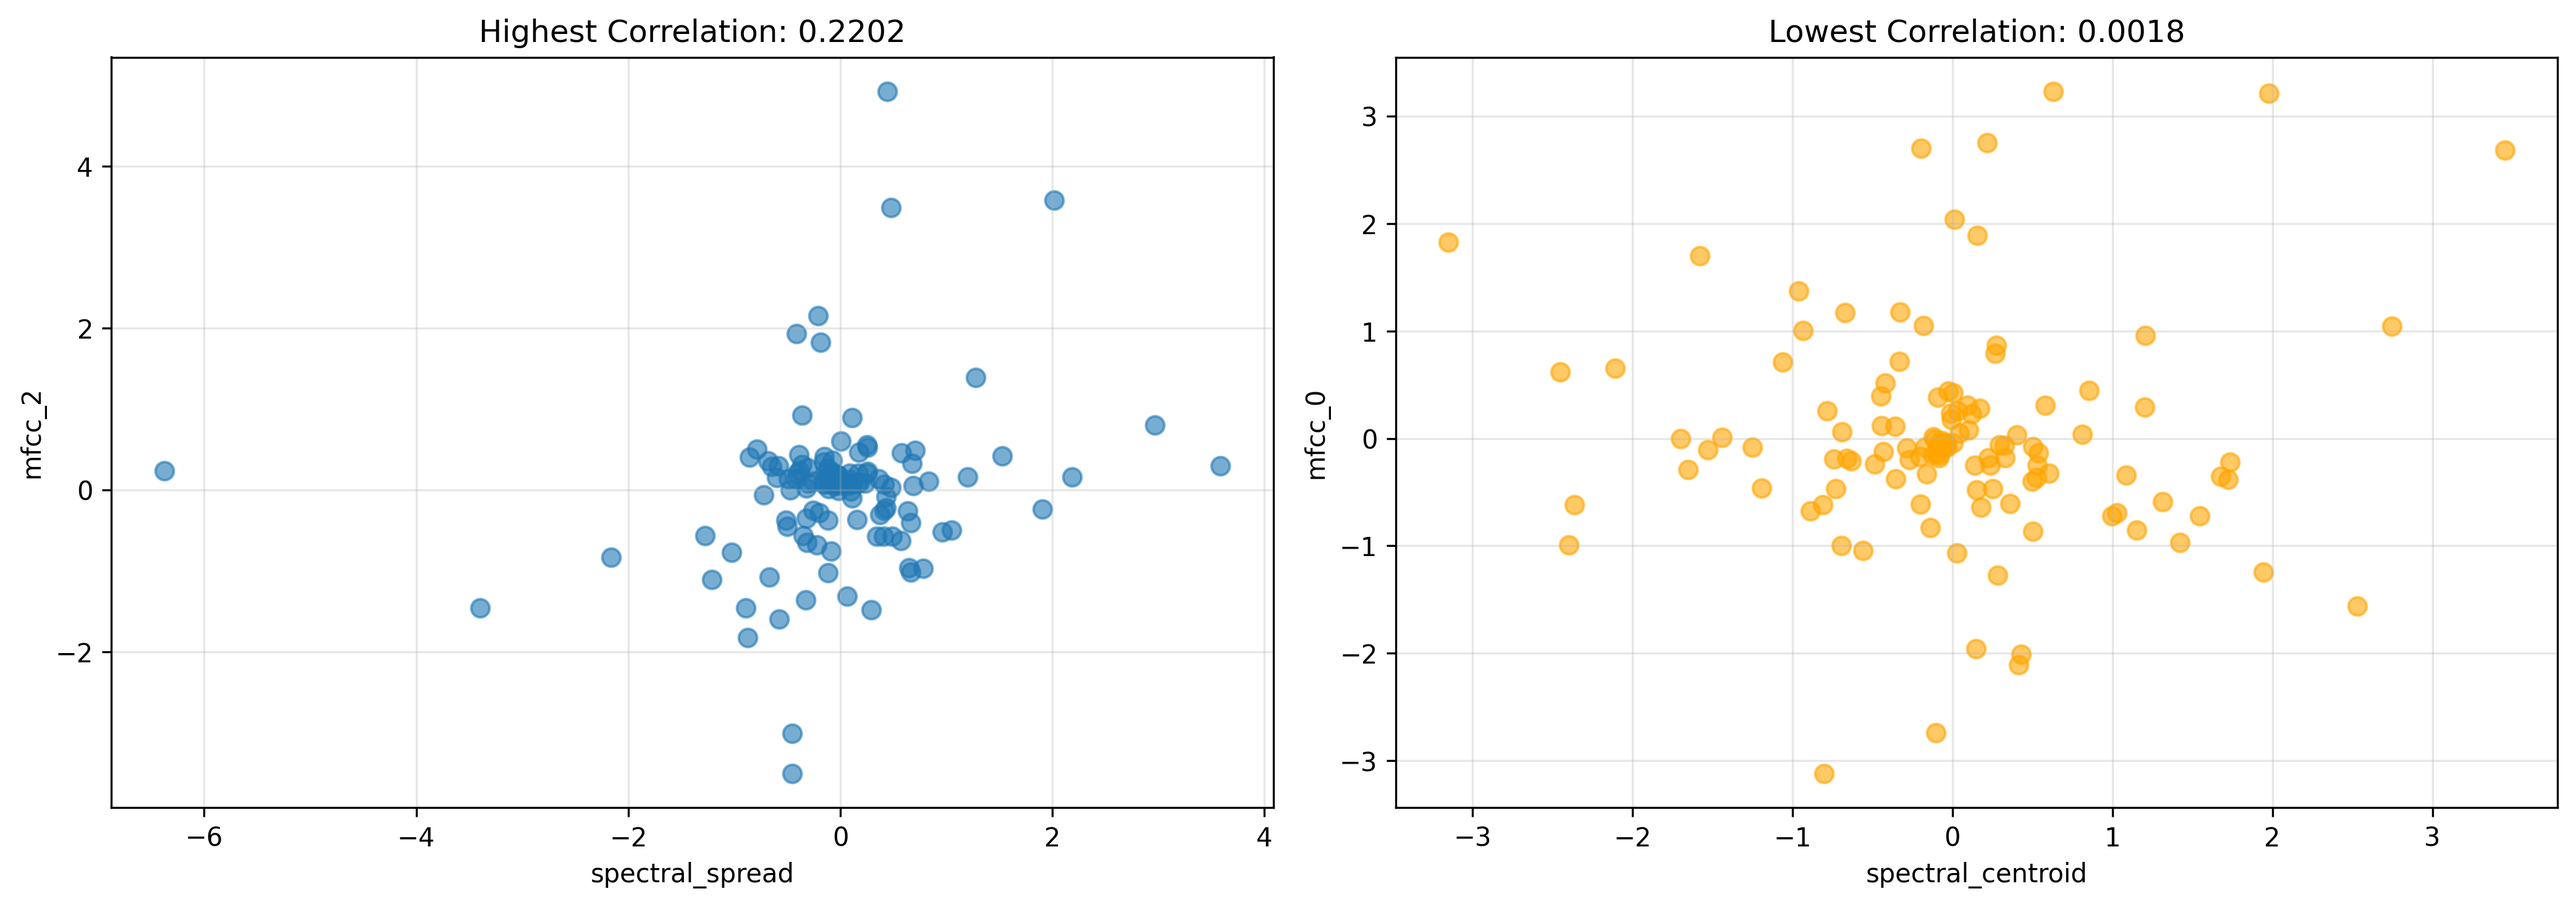
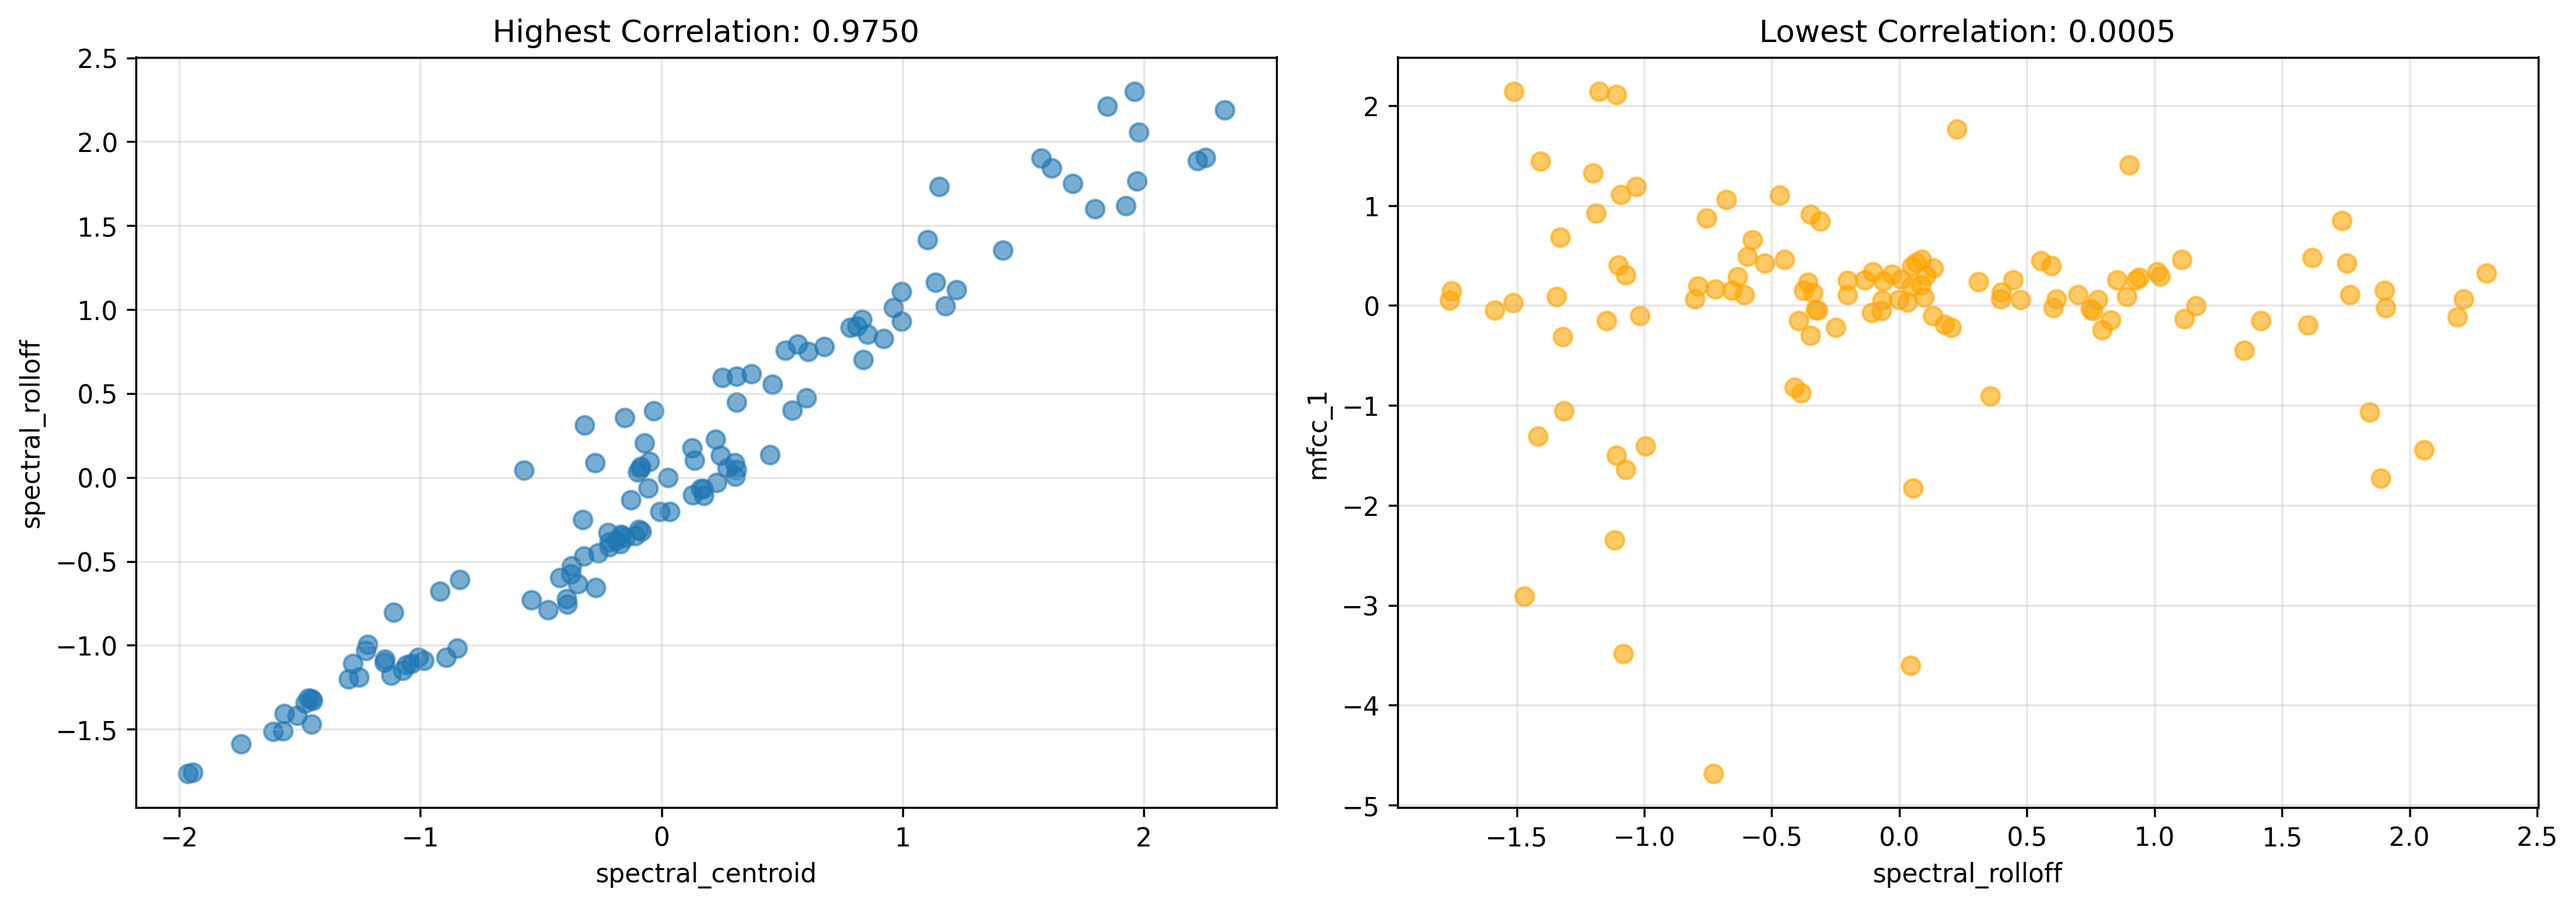
Feature extraction double normalisation corrected!

diff --git a/In_class_activities/Week_6/Feature_extraction.py b/In_class_activities/Week_6/Feature_extraction.py
@@ -312,22 +312,14 @@ class AudioFeatureExtractor:
         # Keep only first 10 MFCC coefficients
         mfcc_cmvn = mfcc_cmvn[:, :10]
 
-        # Apply z-score normalization to each feature
-        centroids_norm = (centroids - np.mean(centroids)) / (np.std(centroids) + 1e-10)
-        spreads_norm = (spreads - np.mean(spreads)) / (np.std(spreads) + 1e-10)
-        rolloff_norm = (rolloff - np.mean(rolloff)) / (np.std(rolloff) + 1e-10)
-        flatness_norm = (flatness - np.mean(flatness)) / (np.std(flatness) + 1e-10)
-        flux_norm = (flux - np.mean(flux)) / (np.std(flux) + 1e-10)
-        zcr_norm = (zcr - np.mean(zcr)) / (np.std(zcr) + 1e-10)
-
         # AGGREGATE: Take mean of each feature (single value per feature)
         feature_vector = [
-            np.mean(centroids_norm),  # 1. Spectral centroid
-            np.mean(spreads_norm),  # 2. Spectral spread
-            np.mean(rolloff_norm),  # 3. Spectral rolloff
-            np.mean(flatness_norm),  # 4. Spectral flatness
-            np.mean(zcr_norm),  # 5. Zero crossing rate
-            np.mean(flux_norm),  # 6. Spectral flux
+            np.mean(centroids),  # 1. Spectral centroid
+            np.mean(spreads),  # 2. Spectral spread
+            np.mean(rolloff),  # 3. Spectral rolloff
+            np.mean(flatness),  # 4. Spectral flatness
+            np.mean(zcr),  # 5. Zero crossing rate
+            np.mean(flux),  # 6. Spectral flux
         ]
 
         # Add mean of first 10 MFCC coefficients (7-16)
